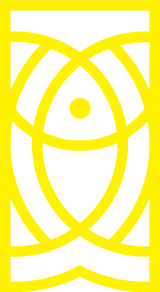
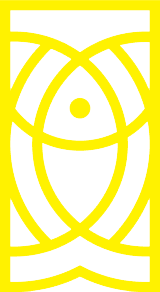
fix: update stamp cursor image, add eraser debug logs
- Cursor: yinzhangji .png → guangbiao .png (resized to 32×31)
- Stamp: reconfirm yinzhang.png for full stamp
- Add console.log to initHeroEraser and onMouseMove for debugging

diff --git a/main.js b/main.js
@@ -54,13 +54,14 @@ document.addEventListener('DOMContentLoaded', function () {
   function initHeroEraser() {
     var hero = document.getElementById('hero');
     var canvas = document.getElementById('hero-canvas');
-    if (!hero || !canvas) return;
+    if (!hero || !canvas) { console.warn('[Eraser] hero or canvas not found'); return; }
 
     var ctx = canvas.getContext('2d');
     var BRUSH_DIAMETER = 50;
     var brushRadius = BRUSH_DIAMETER / 2;
     var pending = [];
     var rafId = null;
+    console.log('[Eraser] init — hero:', hero.clientWidth + '×' + hero.clientHeight, 'canvas:', canvas.width + '×' + canvas.height);
 
     function getPinkColor() {
       return getComputedStyle(document.documentElement).getPropertyValue('--color-pink').trim() || '#FF43B4';
@@ -130,11 +131,15 @@ document.addEventListener('DOMContentLoaded', function () {
       rafId = null;
     }
 
+    var firstMove = true;
     function onMouseMove(e) {
       var pos = getPos(e);
       if (pos.y > hero.clientHeight - 120) return;
       pending.push(pos);
-      if (!rafId) rafId = requestAnimationFrame(flushPending);
+      if (!rafId) {
+        rafId = requestAnimationFrame(flushPending);
+        if (firstMove) { console.log('[Eraser] first move at', pos.x.toFixed(0) + ',' + pos.y.toFixed(0)); firstMove = false; }
+      }
     }
 
     function onTouchMove(e) {